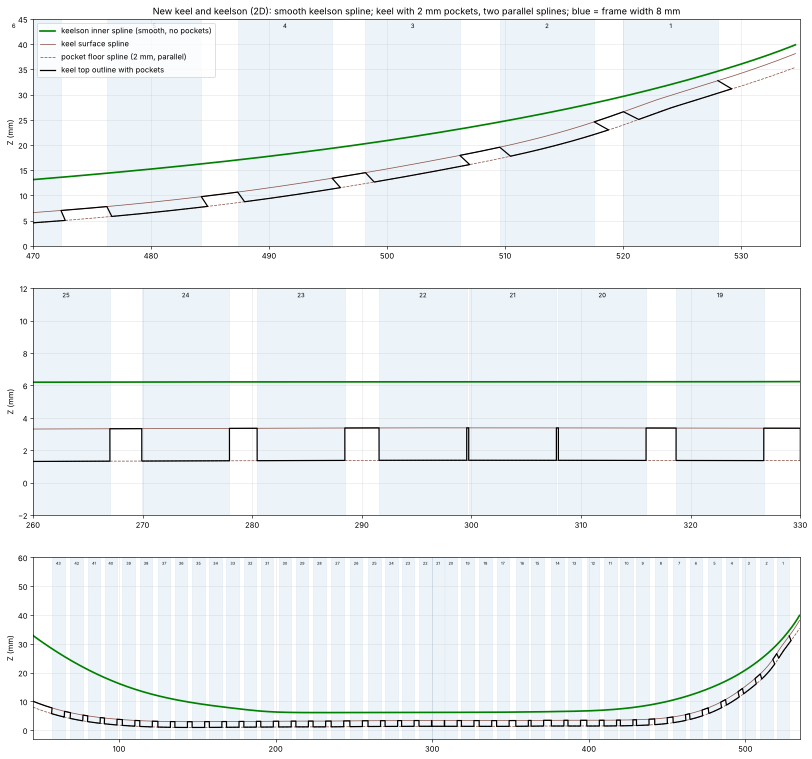
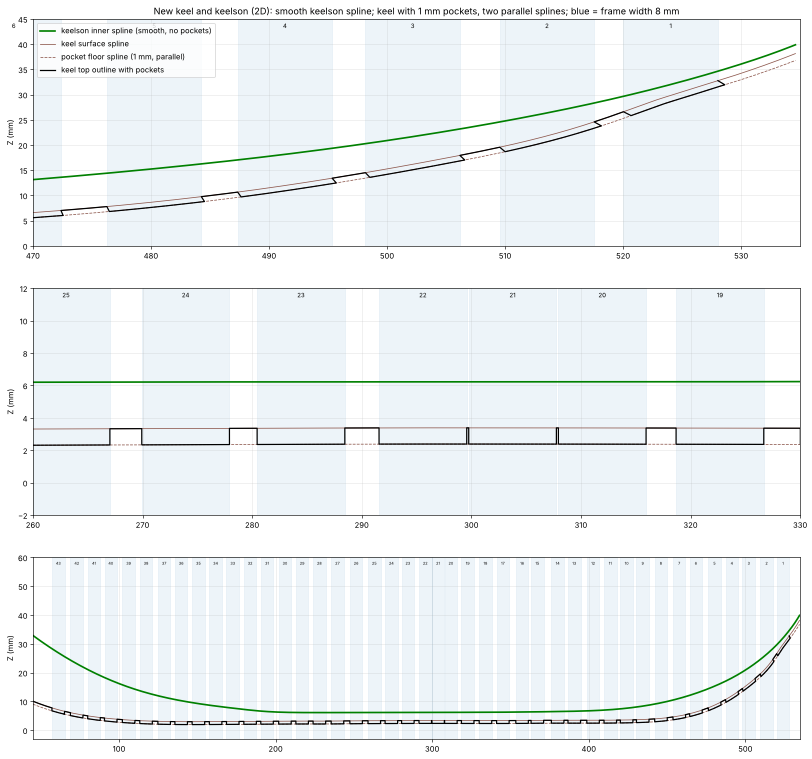
Keel pocket depth 1 mm
Claude-Session: https://claude.ai/code/session_017HV2YHL4JdRTKuYXk76aAy

diff --git a/royal_caroline/py/keel_keelson_v2_2d.py b/royal_caroline/py/keel_keelson_v2_2d.py
@@ -3,7 +3,7 @@ import sys,json,numpy as np
 sys.path.insert(0,'py'); import step_chain as S
 from scipy.interpolate import UnivariateSpline
 import matplotlib; matplotlib.use('Agg'); import matplotlib.pyplot as plt
-DEPTH=2.0; XJ=526.6
+DEPTH=1.0; XJ=526.6
 XF=json.load(open('data/frames_X.json'))['X_mm']
 d=json.load(open('data/keelson_from_step_v1.json')); sK_=UnivariateSpline(d['ref_knots_X'],d['ref_knots_Z'],k=3,s=0)
 c=json.load(open('data/keel_keelson_clean_v1.json')); kx=np.array(c['keel_line']['X']); kz=np.array(c['keel_line']['Z'])-c['keel_raise']
@@ -32,10 +32,10 @@ json.dump(dict(depth=DEPTH,keelson_spline=dict(X=xs[::10].round(2).tolist(),Z=ke
 fig,axs=plt.subplots(3,1,figsize=(18,17),gridspec_kw={'height_ratios':[1,1,.8]})
 for a_,(xl,yl) in zip(axs,(((470,535),(0,45)),((260,330),(-2,12)),((45,535),(-3,60)))):
     xx=np.linspace(max(xl[0],45),min(xl[1],XJ+8),800); a_.plot(xx,keelson(xx),'g',lw=2.2,label='keelson inner spline (smooth, no pockets)'); a_.plot(xx,keel_surface(xx),color='tab:brown',lw=1.0,label='keel surface spline')
-    sl=(keel_surface(xx+.05)-keel_surface(xx-.05))/.1; a_.plot(xx,keel_surface(xx)-DEPTH*np.sqrt(1+sl**2),color='tab:brown',lw=1.0,ls='--',label='pocket floor spline (2 mm, parallel)')
+    sl=(keel_surface(xx+.05)-keel_surface(xx-.05))/.1; a_.plot(xx,keel_surface(xx)-DEPTH*np.sqrt(1+sl**2),color='tab:brown',lw=1.0,ls='--',label='pocket floor spline (1 mm, parallel)')
     a_.plot(keel_top[:,0],keel_top[:,1],color='k',lw=1.6,label='keel top outline with pockets')
     for b,a,bb in pk:
         if xl[0]-8<a<xl[1]: a_.axvspan(a,bb,color='tab:blue',alpha=.08); a_.text((a+bb)/2,yl[1]-(yl[1]-yl[0])*.04,str(b),ha='center',fontsize=8 if a_ is not axs[2] else 5)
     a_.set_xlim(*xl); a_.set_ylim(*yl); a_.grid(alpha=.3); a_.set_ylabel('Z (mm)')
-axs[0].legend(loc='upper left'); axs[0].set_title('New keel and keelson (2D): smooth keelson spline; keel with 2 mm pockets, two parallel splines; blue = frame width 8 mm')
+axs[0].legend(loc='upper left'); axs[0].set_title('New keel and keelson (2D): smooth keelson spline; keel with 1 mm pockets, two parallel splines; blue = frame width 8 mm')
 fig.savefig('qa/keel_keelson_v2_2d.png',dpi=55,bbox_inches='tight')

diff --git a/royal_caroline/STATE.md b/royal_caroline/STATE.md
@@ -296,3 +296,5 @@ Working rules are in `royal_caroline/CLAUDE.md`; read them first.
 - 2026-11-06 builder: keelson = one smooth spline, no pockets; keel has 2 mm pockets with two parallel splines; frame is CUT with allowance = difference between the spline levels at the layer faces (innermost min .. outermost max) and sanded to the final surface (laser mark = final line). `py/frame_allowance_2d.py 5 23` -> `qa/frame_allowance_5_23.png`: frame 5 allowance ~0.9-1.05 mm per layer, frame 23 ~0 (flat midships). 2D only, for approval.
 
 - 2026-11-06 NEW KEEL/KEELSON 2D (builder rules): keelson = smooth STEP spline, no pockets, frame top has no step/pocket (NOSTEP=1 option in frames_batch_2d.py); keel = surface spline + 2 mm pockets normal to the spline, floor spline parallel; 43 pockets 8 mm. `py/keel_keelson_v2_2d.py` -> `data/keel_keelson_v2.json`, `qa/keel_keelson_v2_2d.png`. Gap keelson-keel surface 2.8 mm midships. Next: frames 1-5 on it, 5 per round.
+
+- 2026-11-06 pocket depth set to 1.0 mm (measured in the STEP: keelson steps mean 0.91, deadwood 1.11, backbone.py NOTCH=1.0; ~2 mm only at the bow). `py/keel_keelson_v2_2d.py` DEPTH=1.0 -> qa/keel_keelson_v2_2d.png.
